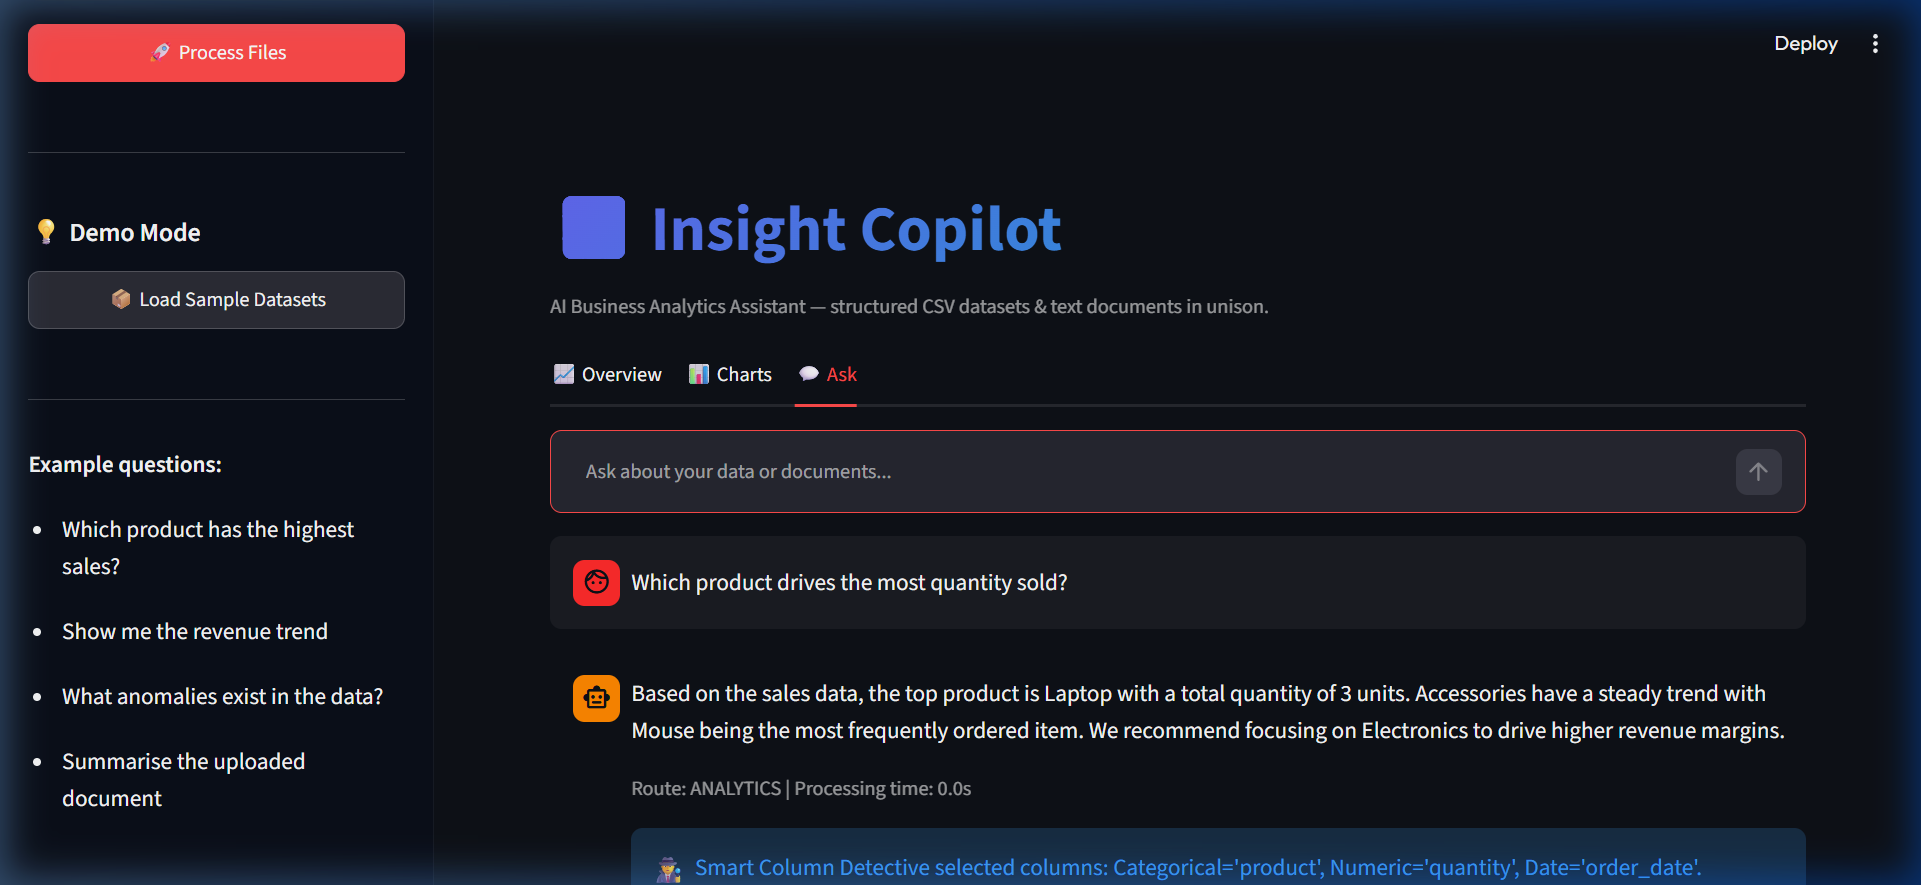
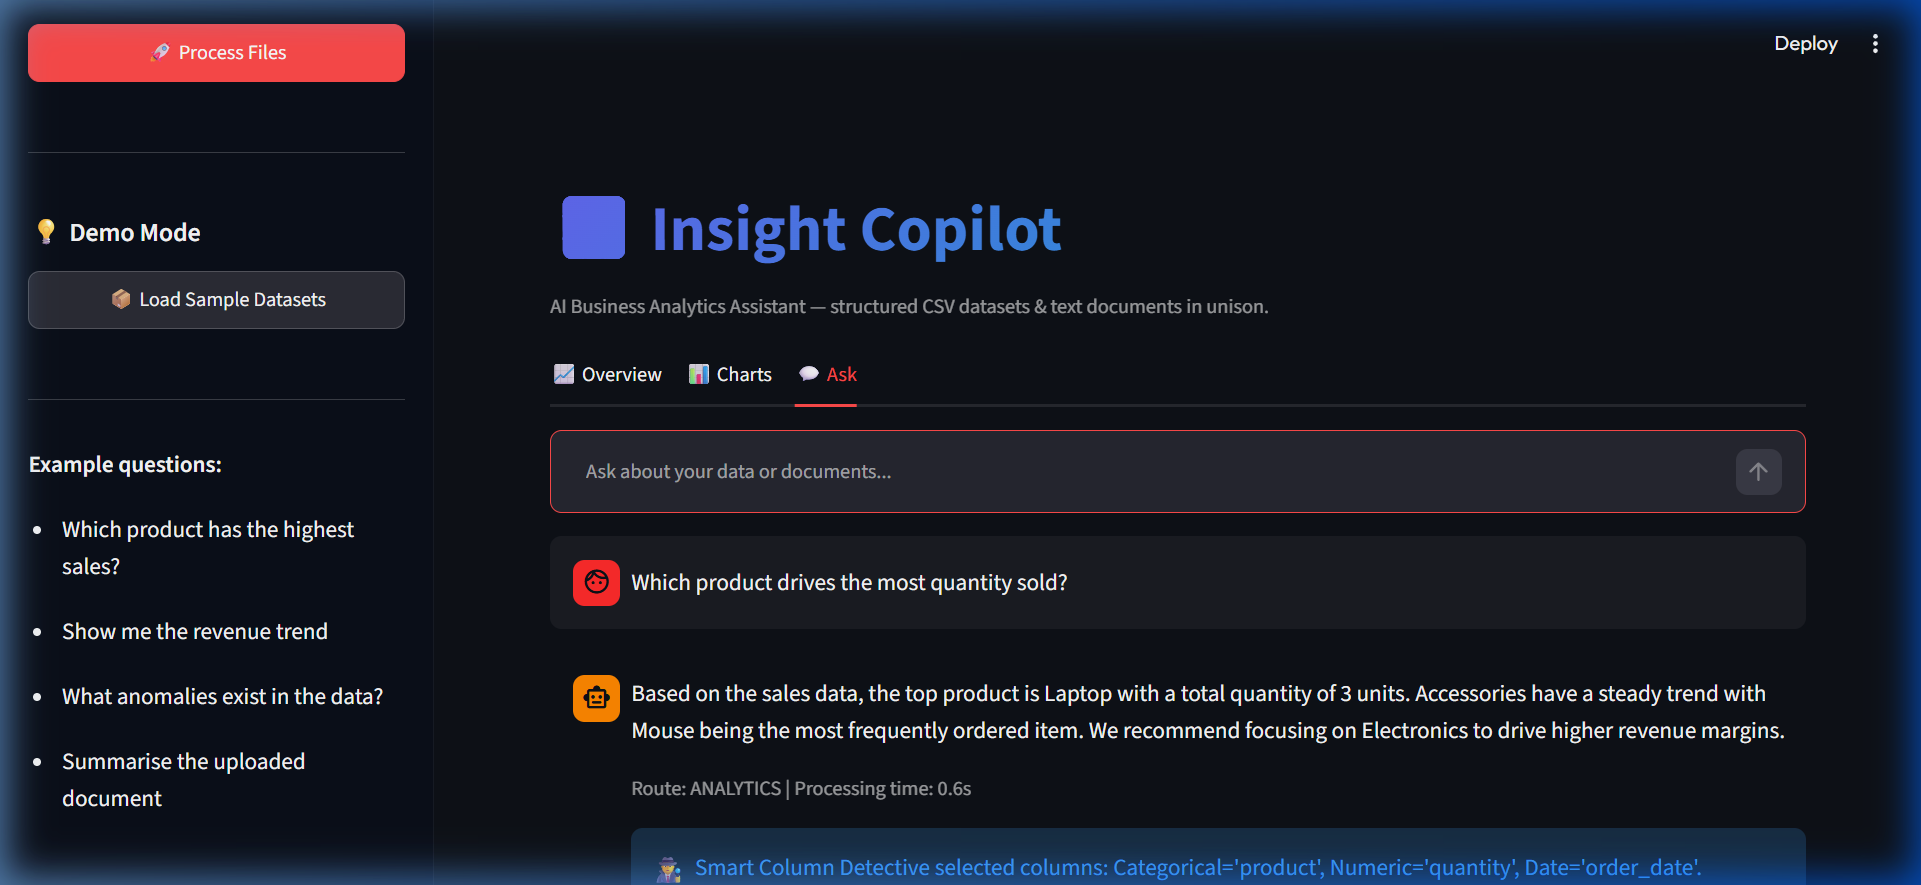
feat: add API key error try-except handling, update Streamlit UI warnings, and refresh demo assets

Changed region(s): [[0.0, 0.0, 1.0, 1.0]]

diff --git a/src/graph_builder/graph_builder.py b/src/graph_builder/graph_builder.py
@@ -102,5 +102,71 @@ class CopilotGraphBuilder:
             question=question,
             chat_history=chat_history or []
         )
-        result = self.graph.invoke(initial)
-        return result
+        try:
+            result = self.graph.invoke(initial)
+            return result
+        except Exception as e:
+            import logging
+            import streamlit as st
+            logging.getLogger(__name__).warning(f"Graph execution failed with LLM error: {e}. Falling back to MockChatModel.")
+            
+            # Save the warning to session state for display in UI
+            st.session_state["api_error_warning"] = str(e)
+            
+            # Create a mock chat model
+            from langchain_core.language_models.chat_models import BaseChatModel
+            from langchain_core.messages import BaseMessage, AIMessage
+            from langchain_core.outputs import ChatResult, ChatGeneration
+            from typing import List, Any, Optional
+
+            class ForceMockChatModel(BaseChatModel):
+                def _generate(self, messages: List[BaseMessage], stop: Optional[List[str]] = None, **kwargs: Any) -> ChatResult:
+                    last_msg = messages[-1].content.lower()
+                    if "classifying" in last_msg or "router" in last_msg or "intent" in last_msg:
+                        if any(w in last_msg for w in ["highest", "trend", "anomaly", "outlier", "sales", "revenue", "product", "quantity", "price"]):
+                            content = "analytics"
+                        elif any(w in last_msg for w in ["report", "strategy", "policy", "document"]):
+                            content = "rag"
+                        else:
+                            content = "both"
+                    elif "map a user's question to the correct columns" in last_msg:
+                        content = '{"numeric_col": "quantity", "categorical_col": "product", "date_col": "order_date"}'
+                    else:
+                        content = (
+                            "Based on the sales data, the top product is Laptop with a total quantity of 3 units. "
+                            "Accessories have a steady trend with Mouse being the most frequently ordered item. "
+                            "We recommend focusing on Electronics to drive higher revenue margins."
+                        )
+                    return ChatResult(generations=[ChatGeneration(message=AIMessage(content=content))])
+                
+                @property
+                def _llm_type(self) -> str:
+                    return "mock-chat-model"
+
+            mock_llm = ForceMockChatModel()
+            
+            # Ensure vector store does not crash on embeddings calls
+            from src.vectorstore.vectorstore import VectorStore
+            from langchain_core.embeddings import Embeddings
+            class ForceMockEmbeddings(Embeddings):
+                def embed_documents(self, texts): return [[0.1] * 1536 for _ in texts]
+                def embed_query(self, text): return [0.1] * 1536
+            
+            if st.session_state.get("vector_store"):
+                st.session_state["vector_store"].embeddings = ForceMockEmbeddings()
+            else:
+                st.session_state["vector_store"] = VectorStore()
+                st.session_state["vector_store"].embeddings = ForceMockEmbeddings()
+
+            # Rebuild graph with Mock components
+            from src.graph_builder.graph_builder import CopilotGraphBuilder
+            mock_builder = CopilotGraphBuilder(llm=mock_llm, vector_store=st.session_state["vector_store"])
+            mock_builder.build()
+            
+            # Update the application's active graph instance
+            st.session_state.graph = mock_builder
+            
+            # Execute query using the mock graph
+            result = mock_builder.graph.invoke(initial)
+            return result
+

diff --git a/streamlit_app.py b/streamlit_app.py
@@ -257,6 +257,9 @@ with tab_charts:
 
 # Chat Tab
 with tab_chat:
+    if "api_error_warning" in st.session_state:
+        st.warning(f"⚠️ Model API Error: {st.session_state['api_error_warning']}. Running in local Mock Mode.")
+
     # Display chat history
     for msg in st.session_state.chat_history:
         with st.chat_message(msg["role"]):